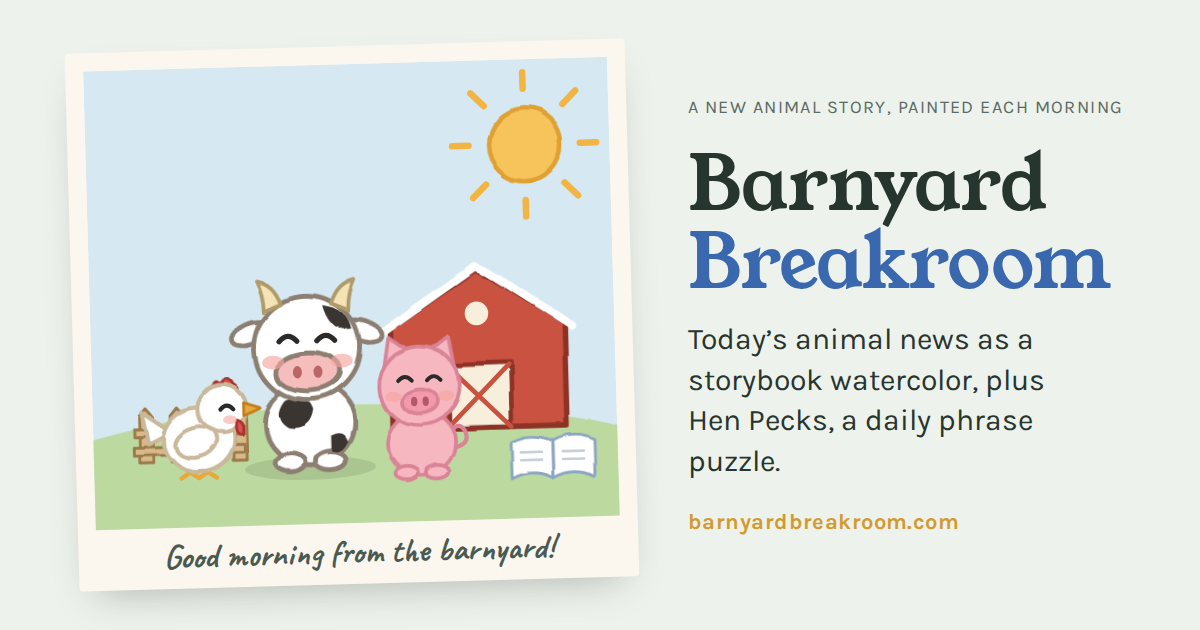
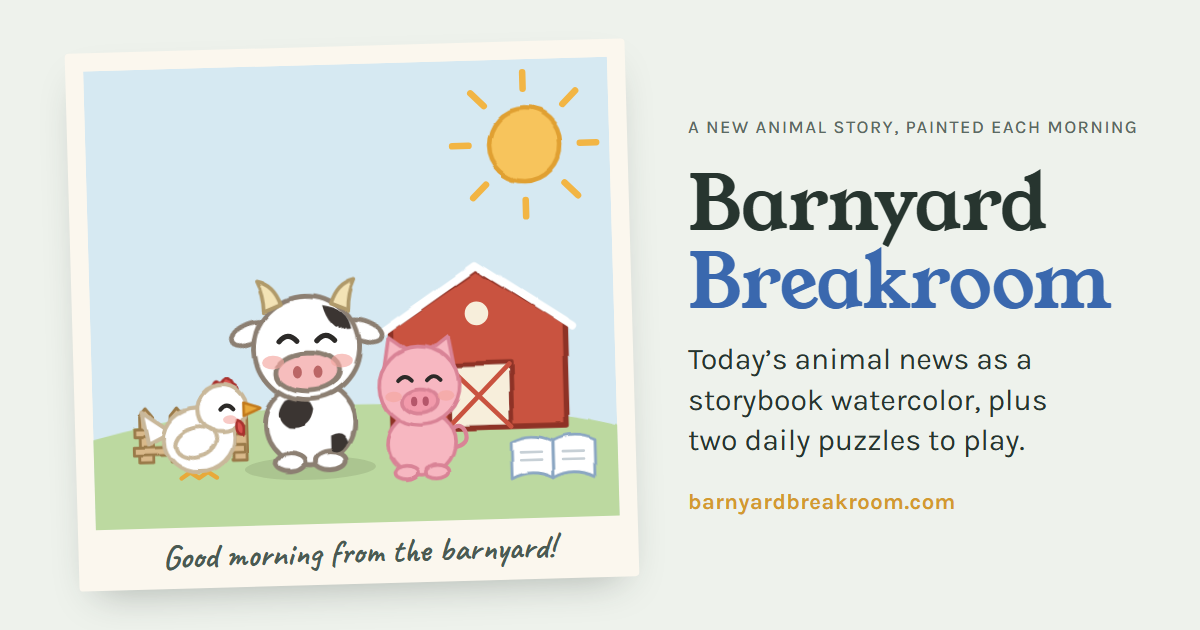
Polish the story page: matching dates, source credit, phone archive, link preview
- The story's date is now the day it was painted, like its archive card;
  the article's own date sits by its source when they differ.
- A story without a source name is credited to the site it links to,
  never to National Geographic.
- Phones show the archive two cards a row.
- The home page's link preview mentions both daily puzzles, in its
  description and its picture.

diff --git a/tests/pecks.spec.js b/tests/pecks.spec.js
@@ -295,6 +295,9 @@ test("an earlier story says when it was painted and links back to today's", asyn
   await page.goto("/");
   await expect(page.locator("#headline")).toHaveText("Today's story");
   await expect(page.locator("#earlier")).toBeHidden();
+  // The story shows the day it was painted, the same as its card, and the article's own date by its source.
+  await expect(page.locator("#meta")).toContainText("Painted September 29, 2026");
+  await expect(page.locator("#meta")).toContainText("story from September 28, 2026");
   // Cards show the day each story was painted.
   const card = page.locator("#grid .card");
   await expect(card).toContainText("September 20, 2026");
@@ -303,10 +306,21 @@ test("an earlier story says when it was painted and links back to today's", asyn
   await expect(page.locator("#headline")).toHaveText("An older story");
   await expect(page.locator("#headline")).toBeFocused();
   await expect(page.locator("#earlier")).toContainText("An earlier page, painted September 20, 2026.");
+  await expect(page.locator("#meta")).toContainText("Painted September 20, 2026");
   await page.getByRole("button", { name: "Back to today’s story" }).click();
   await expect(page.locator("#headline")).toHaveText("Today's story");
   await expect(page.locator("#headline")).toBeFocused();
   await expect(page.locator("#earlier")).toBeHidden();
+});
+
+test("a story without a source name is credited to the site it links to", async ({ page }) => {
+  const real = await (await page.request.get("/stories.json")).json();
+  const { source, ...story } = real[0]; // eslint-disable-line no-unused-vars
+  const stories = [{ ...story, url: "https://www.example.org/news/1", addedAt: "2026-09-29", published: "2026-09-29" }];
+  await page.route("**/stories.json", (r) => r.fulfill({ json: stories }));
+  await page.goto("/");
+  await expect(page.locator("#meta")).toContainText("example.org");
+  await expect(page.locator("#meta")).not.toContainText("National Geographic");
 });
 
 test("with only a few stories there's no Show more button", async ({ page }) => {

diff --git a/public/index.html b/public/index.html
@@ -12,7 +12,7 @@
 <meta property="og:type" content="website">
 <meta property="og:site_name" content="Barnyard Breakroom">
 <meta property="og:title" content="Barnyard Breakroom">
-<meta property="og:description" content="A new animal news story each morning, painted as a cute storybook watercolor. Plus Hen Pecks, a daily phrase puzzle.">
+<meta property="og:description" content="A new animal news story each morning, painted as a cute storybook watercolor. Plus two daily puzzles to play.">
 <meta property="og:url" content="https://barnyardbreakroom.com/">
 <meta property="og:image" content="https://barnyardbreakroom.com/og-story.png">
 <meta property="og:image:width" content="1200">
@@ -90,6 +90,14 @@
 .card svg{display:block;width:100%;height:auto;aspect-ratio:4/3}
 .card strong{font:400 15px/1.3 "Young Serif",Georgia,serif}
 .card small{color:var(--ink-soft);font-size:13px}
+/* Phones: two smaller cards a row, so the archive isn't one long column */
+@media (max-width:520px){
+  .grid{grid-template-columns:1fr 1fr;gap:14px}
+  .card{align-content:start;gap:6px;padding:6px 6px 10px}
+  .card .mini{padding:4px}
+  .card strong{font-size:13.5px}
+  .card small{font-size:12px}
+}
 .empty{color:var(--ink-soft);font-style:italic}
 .more{display:flex;justify-content:center;margin-top:22px}
 .more:has(#more[hidden]){display:none}

diff --git a/public/index.js b/public/index.js
@@ -55,8 +55,14 @@ function show(id){
   $("summary").classList.remove("empty");
   const meta = $("meta"); meta.textContent = "";
   const b = document.createElement("b"); b.textContent = s.animal || "Animals"; meta.appendChild(b);
-  const d = document.createElement("span"); d.textContent = fmtDate(s.published); meta.appendChild(d);
-  const src = document.createElement("span"); src.textContent = s.source || "National Geographic"; meta.appendChild(src);
+  // The same painted date as the archive cards; the article's own date goes with its source when they differ.
+  const d = document.createElement("span"); d.textContent = "Painted " + fmtDate(painted(s)); meta.appendChild(d);
+  // A story without a source name is credited to the site its link goes to.
+  let from = s.source;
+  if (!from) try { from = new URL(s.url).hostname.replace(/^www\./, ""); } catch {}
+  const src = document.createElement("span"); src.textContent = from || "";
+  if (s.published && s.published !== painted(s)) src.textContent += `${from ? " story" : "Story"} from ${fmtDate(s.published)}`;
+  if (src.textContent) meta.appendChild(src);
   if (/^https:\/\//.test(s.url||"")) $("read").href = s.url;
   $("note").textContent = "";
   // An earlier story says so, with a way back to today's.

diff --git a/scripts/og-cards.html b/scripts/og-cards.html
@@ -37,7 +37,7 @@ h1 span{color:#3A68AE}
   <div>
     <p class="tag">A new animal story, painted each morning</p>
     <h1>Barnyard <span>Breakroom</span></h1>
-    <p class="lede">Today’s animal news as a storybook watercolor, plus Hen Pecks, a daily phrase puzzle.</p>
+    <p class="lede">Today’s animal news as a storybook watercolor, plus two daily puzzles to play.</p>
     <p class="url" style="position:static;margin:28px 0 0">barnyardbreakroom.com</p>
   </div>
 </div>
